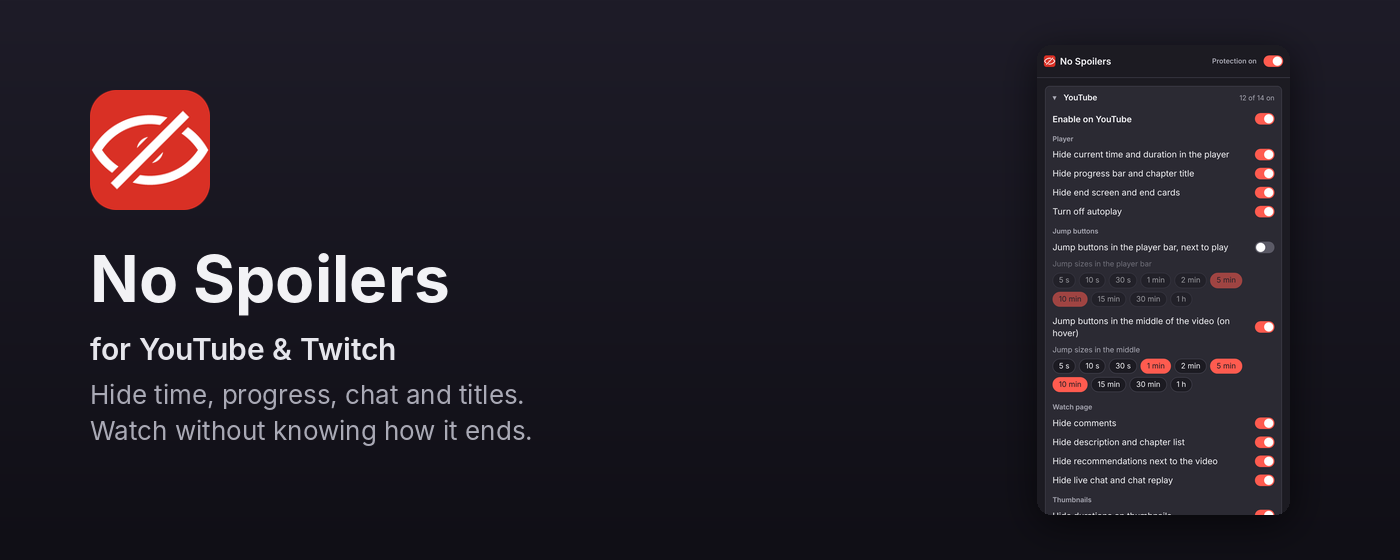
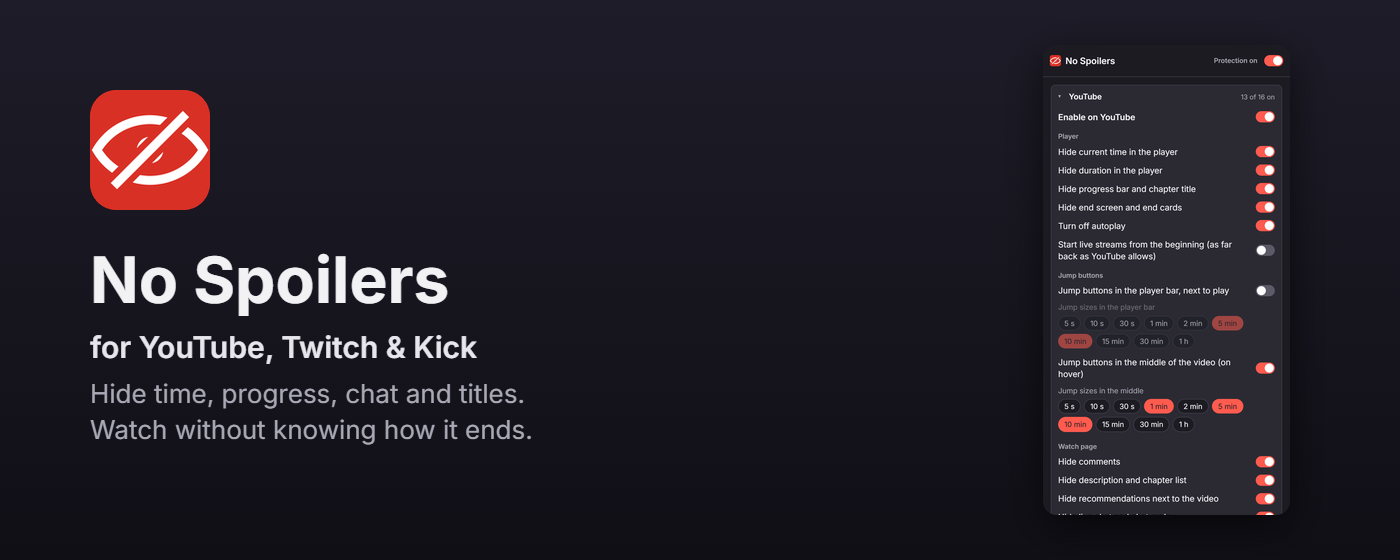
Release 1.3.0

diff --git a/CHANGELOG.md b/CHANGELOG.md
@@ -4,6 +4,8 @@ All notable changes to this extension go here. The format is based on [Keep a Ch
 
 ## [Unreleased]
 
+## [1.3.0] - 2026-11-18
+
 ### Added
 
 - Twitch: new option to start live streams from the beginning (off by default). It needs Twitch's rewind, which requires Twitch Turbo or a subscription to the channel. It only works on channels that keep their videos. When you open a channel that is live right now, the stream jumps to its start instead of showing the live picture. The video stays dark and silent until the jump is done. If rewind is not available, or the jump takes more than a few seconds, the stream plays live. If you click "Live" afterwards, the stream stays live; opening the channel again starts from the beginning.
@@ -83,7 +85,8 @@ Complete rewrite. The extension is now called *No Spoilers*, runs on Firefox and
 
 Settings page with dark mode, configurable keyboard shortcut and reset to defaults. Options for video time, progress bar, comments, description, recommendations, chat, end cards and autoplay.
 
-[Unreleased]: https://github.com/0skater0/no-spoiler/compare/v1.2.0...HEAD
+[Unreleased]: https://github.com/0skater0/no-spoiler/compare/v1.3.0...HEAD
+[1.3.0]: https://github.com/0skater0/no-spoiler/releases/tag/v1.3.0
 [1.2.0]: https://github.com/0skater0/no-spoiler/releases/tag/v1.2.0
 [1.1.0]: https://github.com/0skater0/no-spoiler/releases/tag/v1.1.0
 [1.0.0]: https://github.com/0skater0/no-spoiler/releases/tag/v1.0.0
